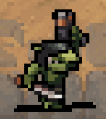
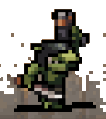
fix(sprites): grechin·gunt 배경 완전 제거 (pre-processed PNG)
런타임 flood fill 대신 브라우저 canvas로 배경 제거 후
투명 PNG로 저장 — 모든 배경 픽셀 제거 완료.

diff --git a/wh40k-survivors/src/sprites.js b/wh40k-survivors/src/sprites.js
@@ -157,12 +157,45 @@ function _loadOrkImage(src, bgRemove = false) {
       try {
         const id   = c.getImageData(0, 0, W, H);
         const data = id.data;
+        const TOLE = 100;
+        // 좌상단 픽셀 = 배경 기준색
         const bgR  = data[0], bgG = data[1], bgB = data[2];
-        for (let i = 0; i < data.length; i += 4) {
-          const dr = Math.abs(data[i]   - bgR);
-          const dg = Math.abs(data[i+1] - bgG);
-          const db = Math.abs(data[i+2] - bgB);
-          if (dr + dg + db < 80) data[i+3] = 0;
+
+        // 모든 가장자리 픽셀 중 배경색과 비슷한 것을 시드로 flood fill
+        // → 캐릭터 발밑처럼 코너에서 막힌 배경도 제거
+        const visited = new Uint8Array(W * H);
+        const queue   = [];
+
+        function seed(x, y) {
+          const idx = y * W + x;
+          if (visited[idx]) return;
+          const bi = idx * 4;
+          const dr = Math.abs(data[bi]   - bgR);
+          const dg = Math.abs(data[bi+1] - bgG);
+          const db = Math.abs(data[bi+2] - bgB);
+          if (dr + dg + db >= TOLE) return;
+          visited[idx] = 1;
+          queue.push(idx);
+        }
+
+        for (let x = 0; x < W; x++) { seed(x, 0); seed(x, H-1); }
+        for (let y = 0; y < H; y++) { seed(0, y); seed(W-1, y); }
+
+        while (queue.length) {
+          const idx = queue.pop();
+          const bi  = idx * 4;
+          if (data[bi+3] === 0) continue;
+          const dr = Math.abs(data[bi]   - bgR);
+          const dg = Math.abs(data[bi+1] - bgG);
+          const db = Math.abs(data[bi+2] - bgB);
+          if (dr + dg + db >= TOLE) continue;
+          data[bi+3] = 0;
+          const x = idx % W, y = (idx / W) | 0;
+          for (const [nx, ny] of [[x+1,y],[x-1,y],[x,y+1],[x,y-1]]) {
+            if (nx < 0 || ny < 0 || nx >= W || ny >= H) continue;
+            const ni = ny * W + nx;
+            if (!visited[ni]) { visited[ni] = 1; queue.push(ni); }
+          }
         }
         c.putImageData(id, 0, 0);
       } catch(e) {
@@ -176,12 +209,11 @@ function _loadOrkImage(src, bgRemove = false) {
   return cv;
 }
 
-// ork1.png, ork2.png : 이미 투명 배경
-// grechin.png, gunt.png : 런타임 배경 제거 필요
+// 모든 이미지 투명 배경 사전 처리 완료
 const _ork1Canvas    = _loadOrkImage('./assets/ork1.png');
 const _ork2Canvas    = _loadOrkImage('./assets/ork2.png');
-const _grechinCanvas = _loadOrkImage('./assets/grechin.png', true);
-const _guntCanvas    = _loadOrkImage('./assets/gunt.png',    true);
+const _grechinCanvas = _loadOrkImage('./assets/grechin.png');
+const _guntCanvas    = _loadOrkImage('./assets/gunt.png');
 
 /**
  * 오크 이미지 공통 렌더
